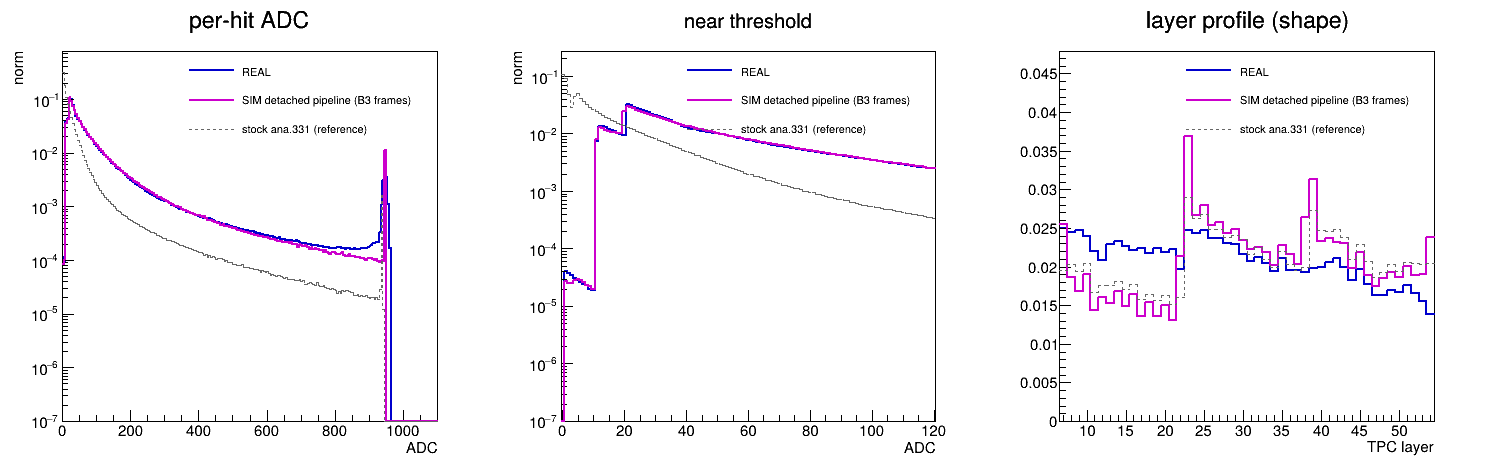
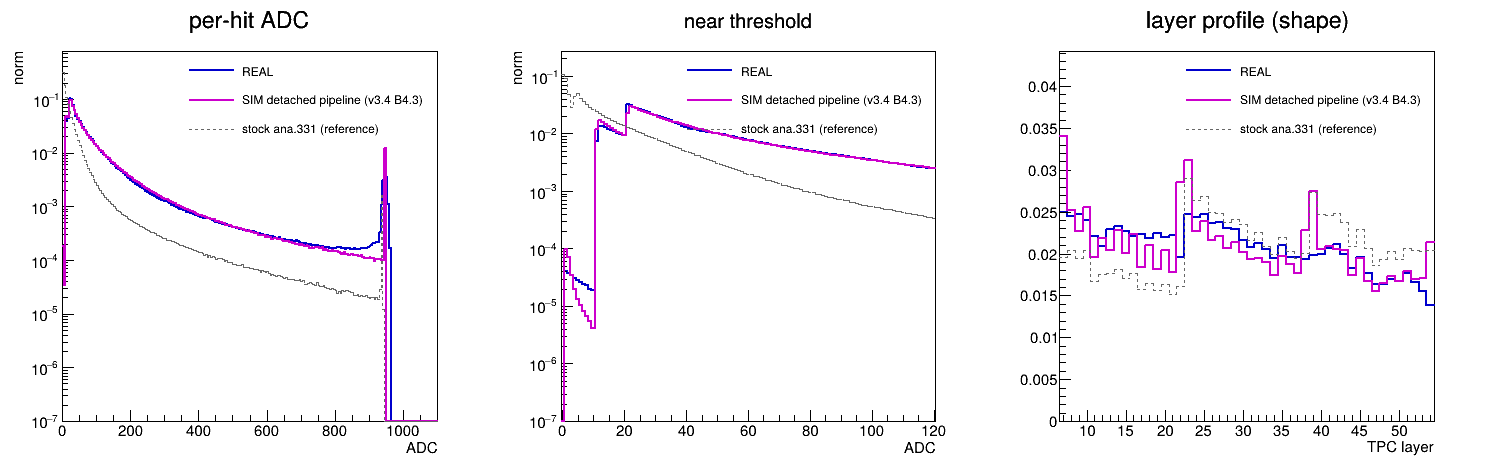
Seals for V34_B43

diff --git a/island_post/tpc_digitize.C b/island_post/tpc_digitize.C
@@ -367,7 +367,8 @@ void tpc_readout(const char *rawin, const char *out,
                  int ret_pre = 0, int ret_post = 0, int seed = 4711,
                  const char *deadmap = "", double thr2_adu = -1.0, double p_keep = 1.0, double sigma_pad = 0.0, double p2 = 0.0,
                  double tail_frac = 0.0, double tail_tau = 4.0,
-                 double tail2_frac = 0.0, double tail2_tau = 60.0, double tail2_floor = 8.0, double tail2_q0 = 0.0, int tail2_emitonly = 0, double tail2_ptrig = 1.0)
+                 double tail2_frac = 0.0, double tail2_tau = 60.0, double tail2_floor = 8.0, double tail2_q0 = 0.0, int tail2_emitonly = 0, double tail2_ptrig = 1.0,
+                 double thr_r1 = -1.0, double gain_r1 = -1.0, double gain_r3 = -1.0)
 {
   loadGeo();
   if (!geo_ok)
@@ -463,6 +464,21 @@ void tpc_readout(const char *rawin, const char *out,
     }
     // electronics for this pad column
     adu.assign(j - i, 0.);
+    // B4.3: REAL region-dependent deterministic ZS (CDB payload TpcADUThresholds10R1_20R23;
+    // confirmed by run 79507 per-region cliffs: R1 keeps adc>=11, R2/R3 keep adc>=21).
+    // thr_r1 >= 0 enables it: thr_adu is then the R2/R3 payload value (20) and the whole
+    // band/retention machinery (thr2/p_keep/ret_pre/ret_post) is DISABLED — the global
+    // "band 11-19 + step at 20" of B3 was purely R1(thr10) stacked on R23(thr20).
+    // p2 becomes a STANDALONE sub-threshold trace leak (real level ~1e-4).
+    const int colL = (int) ((v[i].col >> 32U) & 0xFF);
+    const bool regZS = (thr_r1 >= 0);
+    const double thr_eff = regZS ? ((colL < 23 ? thr_r1 : thr_adu) + 1.0) : thr_adu;
+    // B4.3 region gain factors (phenomenological; coarse stand-in for the CAEN
+    // per-module corrections = B4.4): the real per-region pixel means demand
+    // R1 ~1.2x, R3 ~1.06x relative to the R2-anchored global gaincal.
+    double greg = 1.0;
+    if (gain_r1 > 0 && colL < 23) greg = gain_r1;
+    if (gain_r3 > 0 && colL >= 39) greg = gain_r3;
     double gpad = 1.0;
     if (sigma_pad > 0)
     {
@@ -476,7 +492,7 @@ void tpc_readout(const char *rawin, const char *out,
     }
     for (size_t k = i; k < j; ++k)
     {
-      double a = v[k].q * gpad * gaincal * CFG::MV_PER_E * CFG::ADU_PER_MV + CFG::PEDESTAL + rng.Gaus(0., CFG::NOISE_ADU);
+      double a = v[k].q * gpad * greg * gaincal * CFG::MV_PER_E * CFG::ADU_PER_MV + CFG::PEDESTAL + rng.Gaus(0., CFG::NOISE_ADU);
       if (a > 1023)
       {
         a = 1023;  // 10-bit saturation BEFORE pedestal subtraction
@@ -518,7 +534,7 @@ void tpc_readout(const char *rawin, const char *out,
       // emission floor: real late tails sit JUST above T1 (measured run 79507 long-run
       // profile: 22-44 ADU plateau); emitting below T1 inflates medium runs through the
       // retention band (scan round 1), so the physical floor is ~T1.
-      const double EMIT_FLOOR = tail2_floor;
+      const double EMIT_FLOOR = regZS ? thr_eff : tail2_floor;  // chains die at the region threshold
       // SLOW COMPONENT (B4.2, scan round 4+): FIXED-DURATION LINEAR ramp, per ALICE's
       // measured GEM slow ion component ("nearly linear — ions uniformly produced in the
       // induction gap", arXiv:2304.03881): each source pixel with a > tail2_q0 launches
@@ -660,9 +676,13 @@ void tpc_readout(const char *rawin, const char *out,
     keep.assign(col.size(), 0);
     for (size_t k = 0; k < col.size(); ++k)
     {
-      if (col[k].a >= thr_adu)
+      if (col[k].a >= thr_eff)
       {
         keep[k] = 1;
+        if (regZS)
+        {
+          continue;  // deterministic region ZS: no neighbour retention, no band
+        }
         for (int d = 1; d <= ret_pre; ++d)
         {
           if (k >= (size_t) d && col[k].tb - col[k - d].tb == d)
@@ -691,6 +711,10 @@ void tpc_readout(const char *rawin, const char *out,
             }
           }
         }
+      }
+      else if (regZS && col[k].a >= 1 && p2 > 0 && rng.Uniform() < p2)
+      {
+        keep[k] = 1;  // regional mode: standalone sub-threshold trace leak
       }
     }
     {

diff --git a/island_post/zsize_physics.C b/island_post/zsize_physics.C
@@ -3,13 +3,13 @@
 //      "zsize 12-20 empty" observation) vs uncapped islands on the SAME real data;
 //  (2) real vs sim islands zsize (uncapped physics tails);
 //  (3) diffusion growth: mean island z-size vs |z| (drift length), real vs sim.
-// Sim side follows the CURRENT production (v3.3 B4.2 via island_frames_v33.root).
+// Sim side follows the CURRENT production (v3.4 B4.3 via island_frames_v34.root).
 void zsize_physics(){
   gROOT->SetBatch(1); gStyle->SetOptStat(0);
   TFile*fr=TFile::Open("/home/rog/sPHENIX/3D_ClusterFindingML/clusters_seeds_island_79507-0.root_ntuplizer.root");
   TTree*rc=(TTree*)fr->Get("ntp_cluster");
   TFile*fi=TFile::Open("island_real.root");      TTree*ri=(TTree*)fi->Get("island");
-  TFile*fv=TFile::Open("island_frames_v33.root"); TTree*si=(TTree*)fv->Get("island");
+  TFile*fv=TFile::Open("island_frames_v34.root"); TTree*si=(TTree*)fv->Get("island");
   TCanvas c("c","",1800,600); c.Divide(3,1);
   auto mk=[&](TTree*t,const char*v,const char*hn,const char*cut){
     TH1D*h=new TH1D(hn,"",40,0.5,40.5); t->Draw(Form("%s>>%s",v,hn),cut,"goff");
@@ -29,7 +29,7 @@ void zsize_physics(){
   d->SetMaximum(std::max(d->GetMaximum(),e->GetMaximum())*2.5); d->SetMinimum(1e-7);
   d->Draw("HIST"); e->Draw("HIST SAME");
   TLegend*L2=new TLegend(0.42,0.76,0.89,0.89); L2->SetBorderSize(0); L2->SetFillStyle(0);
-  L2->AddEntry(d,"REAL islands","l"); L2->AddEntry(e,"SIM v3.3 (B4.2)","l"); L2->Draw();
+  L2->AddEntry(d,"REAL islands","l"); L2->AddEntry(e,"SIM v3.4 (B4.3)","l"); L2->Draw();
   c.cd(3);
   TProfile*p1=new TProfile("p1","<z-size> vs |apparent z|  [flat = correct: #sigma_{L} sub-tbin, t0-mixed];|apparent z| [cm];<z-size> [tbins]",30,0,300);
   TProfile*p2=new TProfile("p2","",30,0,300);
@@ -38,7 +38,7 @@ void zsize_physics(){
   p1->SetStats(0); p1->SetMinimum(0); p1->SetMaximum(8);
   p1->Draw(); p2->Draw("SAME");
   TLegend*L3=new TLegend(0.42,0.76,0.89,0.89); L3->SetBorderSize(0); L3->SetFillStyle(0);
-  L3->AddEntry(p1,"REAL islands","l"); L3->AddEntry(p2,"SIM v3.3 (B4.2)","l"); L3->Draw();
+  L3->AddEntry(p1,"REAL islands","l"); L3->AddEntry(p2,"SIM v3.4 (B4.3)","l"); L3->Draw();
   c.SaveAs("/home/rog/sPHENIX/3D_ClusterFindingML/sim_validation_plots/zsize_physics.png");
-  printf("saved zsize_physics.png (v3.3 B4.2)\n");
+  printf("saved zsize_physics.png (v3.4 B4.3)\n");
 }

diff --git a/island_post/cmp_pau.C b/island_post/cmp_pau.C
@@ -27,8 +27,8 @@ void cmp_pau(){
     TH1D*h=new TH1D(hn,"",nb,lo,hi); t->Draw(Form("%s>>%s",v,hn),cut,"goff"); return h; };
   const char* RC="layer>=7&&layer<=54&&adc>0";
   const char* SC="layer>=7&&layer<=54&&adc>0";
-  // ---- hits: THREE-WAY — real vs detached B3 frames vs container ----
-  TFile*fb=TFile::Open("digi_frames_production_v32.root"); TTree*bh=(TTree*)fb->Get("ntp_hit");
+  // ---- hits: THREE-WAY — real vs detached frames (CURRENT production v3.3) vs container ----
+  TFile*fb=TFile::Open("digi_frames_production_v34.root"); TTree*bh=(TTree*)fb->Get("ntp_hit");
   auto d3=[&](TVirtualPad*p,TH1D*a,TH1D*b,TH1D*g,const char*ti,bool logy){
     p->cd(); for(TH1D*x:{a,b,g}) if(x->Integral()>0)x->Scale(1./x->Integral());
     a->SetLineColor(kBlue+1); b->SetLineColor(kMagenta+1);
@@ -42,7 +42,7 @@ void cmp_pau(){
     a->Draw("HIST"); b->Draw("HIST SAME"); g->Draw("HIST SAME");
     TLegend*L=new TLegend(0.35,0.70,0.89,0.89); L->SetBorderSize(0); L->SetFillStyle(0);
     L->AddEntry(a,"REAL","l");
-    L->AddEntry(b,"SIM detached pipeline (B3 frames)","l");
+    L->AddEntry(b,"SIM detached pipeline (v3.4 B4.3)","l");
     L->AddEntry(g,"stock ana.331 (reference)","l"); L->Draw(); };
   TCanvas c1("c1","",1500,500); c1.Divide(3,1);
   d3(c1.cd(1),H(rh,"adc","a1",220,-0.5,1099.5,RC),H(bh,"adc","m1",220,-0.5,1099.5,""),
@@ -53,7 +53,7 @@ void cmp_pau(){
      H(sh,"layer","b3",48,6.5,54.5,SC),"layer profile (shape);TPC layer;norm",false);
   c1.SaveAs("/home/rog/sPHENIX/3D_ClusterFindingML/sim_validation_plots/cmp_pau_hit.png");
   // ---- clusters: three-way (REAL production | detached islandize91 v2 | stock ghost) ----
-  TFile*fb2=TFile::Open("island91_frames_production_v32.root"); TTree*bc=(TTree*)fb2->Get("ntp_cluster");
+  TFile*fb2=TFile::Open("island91_frames_production_v34.root"); TTree*bc=(TTree*)fb2->Get("ntp_cluster");
   TCanvas c2("c2","",1500,900); c2.Divide(3,2);
   const char* RCC="layer>=7&&layer<=54";
   d3(c2.cd(1),H(rc,"adc","d1",150,0,6000,RCC),H(bc,"adc","f1",150,0,6000,""),H(sc,"adc","e1",150,0,6000,""),

diff --git a/island_post/zs_shapes.C b/island_post/zs_shapes.C
@@ -10,8 +10,8 @@
 // no saturation-triggered slow disturbance) kept as the reference curve.
 #include "canon.h"
 
-void zs_shapes(const char *v33 = "digi_frames_production_v33.root",
-               const char *vref = "digi_frames_production_v32.root")
+void zs_shapes(const char *vcur = "digi_frames_production_v34.root",
+               const char *vref = "digi_frames_production_v33.root")
 {
   gROOT->SetBatch(1);
   gStyle->SetOptStat(0);
@@ -23,7 +23,7 @@ void zs_shapes(const char *v33 = "digi_frames_production_v33.root",
   if (!ra || !hr) return;
 
   // SIM: full-spectrum integer-bin fills (identical bin width 1 -> shape-comparable).
-  TFile *f1 = TFile::Open(v33);
+  TFile *f1 = TFile::Open(vcur);
   TTree *t1 = (TTree *) f1->Get("ntp_hit");
   TH1D *h1 = new TH1D("h_v33", "", ra->GetNbinsX(), ra->GetXaxis()->GetXmin(), ra->GetXaxis()->GetXmax());
   t1->Draw("adc>>h_v33", "", "goff");
@@ -77,9 +77,9 @@ void zs_shapes(const char *v33 = "digi_frames_production_v33.root",
   L.SetBorderSize(0);
   L.SetFillStyle(0);
   L.AddEntry(hr, "REAL", "l");
-  L.AddEntry(h1, "SIM v3.3 (B4.2 final)", "l");
-  L.AddEntry(h2, "SIM v3.2 (B4.1, reference)", "l");
+  L.AddEntry(h1, "SIM v3.4 (B4.3: real region ZS)", "l");
+  L.AddEntry(h2, "SIM v3.3 (B4.2, reference)", "l");
   L.Draw();
   c.SaveAs("/home/rog/sPHENIX/3D_ClusterFindingML/sim_validation_plots/zs_shapes.png");
-  printf("saved zs_shapes.png (v3.3 B4.2 vs v3.2 vs real)\n");
+  printf("saved zs_shapes.png (v3.4 vs v3.3 vs real)\n");
 }

diff --git a/island_post/b42_metrics.C b/island_post/b42_metrics.C
@@ -23,6 +23,7 @@ void b42_metrics(const char *fn = "b42_tmp.root", const char *tag = "cfg")
   t->SetBranchAddress("zelem", &ze);
   t->SetBranchAddress("adc", &adc);
   TH1D hr("hr", "", 400, 0.5, 400.5), ha("ha", "", 1101, -0.5, 1100.5);
+  double rn[3] = {0, 0, 0}, radc[3] = {0, 0, 0};
   std::vector<std::pair<long long, int>> buf;
   buf.reserve(3000000);
   int curev = -1;
@@ -52,12 +53,19 @@ void b42_metrics(const char *fn = "b42_tmp.root", const char *tag = "cfg")
   {
     t->GetEntry(i);
     ha.Fill(adc);
+    int rg = lay < 23 ? 0 : (lay < 39 ? 1 : 2);
+    rn[rg] += 1;
+    radc[rg] += adc;
     if ((int) ev != curev) { flush(); curev = (int) ev; nev += 1; }
     long long key = ((long long) (ze > 0.5)) * 100000000LL + (long long) lay * 1000000LL + (long long) pb;
     buf.emplace_back(key, (int) tb);
   }
   flush();
   double rt = hr.Integral(), at = ha.Integral();
+  double rtot = rn[0] + rn[1] + rn[2];
+  printf("B43REGION %-14s shares R1 %.3f R2 %.3f R3 %.3f | pixm R1 %.1f R2 %.1f R3 %.1f\n",
+         tag, rn[0] / rtot, rn[1] / rtot, rn[2] / rtot,
+         radc[0] / rn[0], radc[1] / rn[1], radc[2] / rn[2]);
   printf("B42METRIC %-14s kept/fr %7.0f | pixmean %6.2f | sub10 %.2e | sh/hi %.3f | run mean %.3f P5 %.2e P10 %.2e P20 %.2e P30 %.2e\n",
          tag, at / nev, ha.GetMean(),
          ha.Integral(ha.FindBin(1), ha.FindBin(10)) / at,

diff --git a/island_post/funny_shapes.C b/island_post/funny_shapes.C
@@ -23,11 +23,11 @@
 
 void funny_shapes(const char *realpix =
                       "/home/rog/sPHENIX/3D_ClusterFindingML/clusters_seeds_island_79507-0.root_ntuplizer.root",
-                  const char *simpix = "digi_frames_production_v33.root",
+                  const char *simpix = "digi_frames_production_v34.root",
                   int realevent = 74, int simlayer = 15, int simframe = -1, int reallayer = -1,
                   double philo = 0.0, double phihi = 1.0, int tlo = 600, int thi = 800,
                   const char *out = "/home/rog/sPHENIX/3D_ClusterFindingML/sim_validation_plots/funny_shapes.png",
-                  const char *tag = "pAu v3.3 (B4.2)")
+                  const char *tag = "pAu v3.4 (B4.3)")
 {
   gROOT->SetBatch(1);
   gStyle->SetOptStat(0);

diff --git a/island_post/residuals_evidence.C b/island_post/residuals_evidence.C
@@ -13,8 +13,8 @@
 #include "canon.h"
 
 void residuals_evidence(const char *realisl = "island_real.root",
-                        const char *simisl = "island_frames_v33.root",
-                        const char *tag = "SIM v3.3 (B4.2)")
+                        const char *simisl = "island_frames_v34.root",
+                        const char *tag = "SIM v3.4 (B4.3)")
 {
   gROOT->SetBatch(1);
   gStyle->SetOptStat(0);

diff --git a/island_post/bestmatch_scan.C b/island_post/bestmatch_scan.C
@@ -20,7 +20,7 @@
 #include <map>
 #include <vector>
 
-void bestmatch_scan(const char *simisl91 = "island91_frames_production_v33.root",
+void bestmatch_scan(const char *simisl91 = "island91_frames_production_v34.root",
                     const char *realisl91 = "island91_real.root",
                     int realevent = 74, int reallayer = 15)
 {
